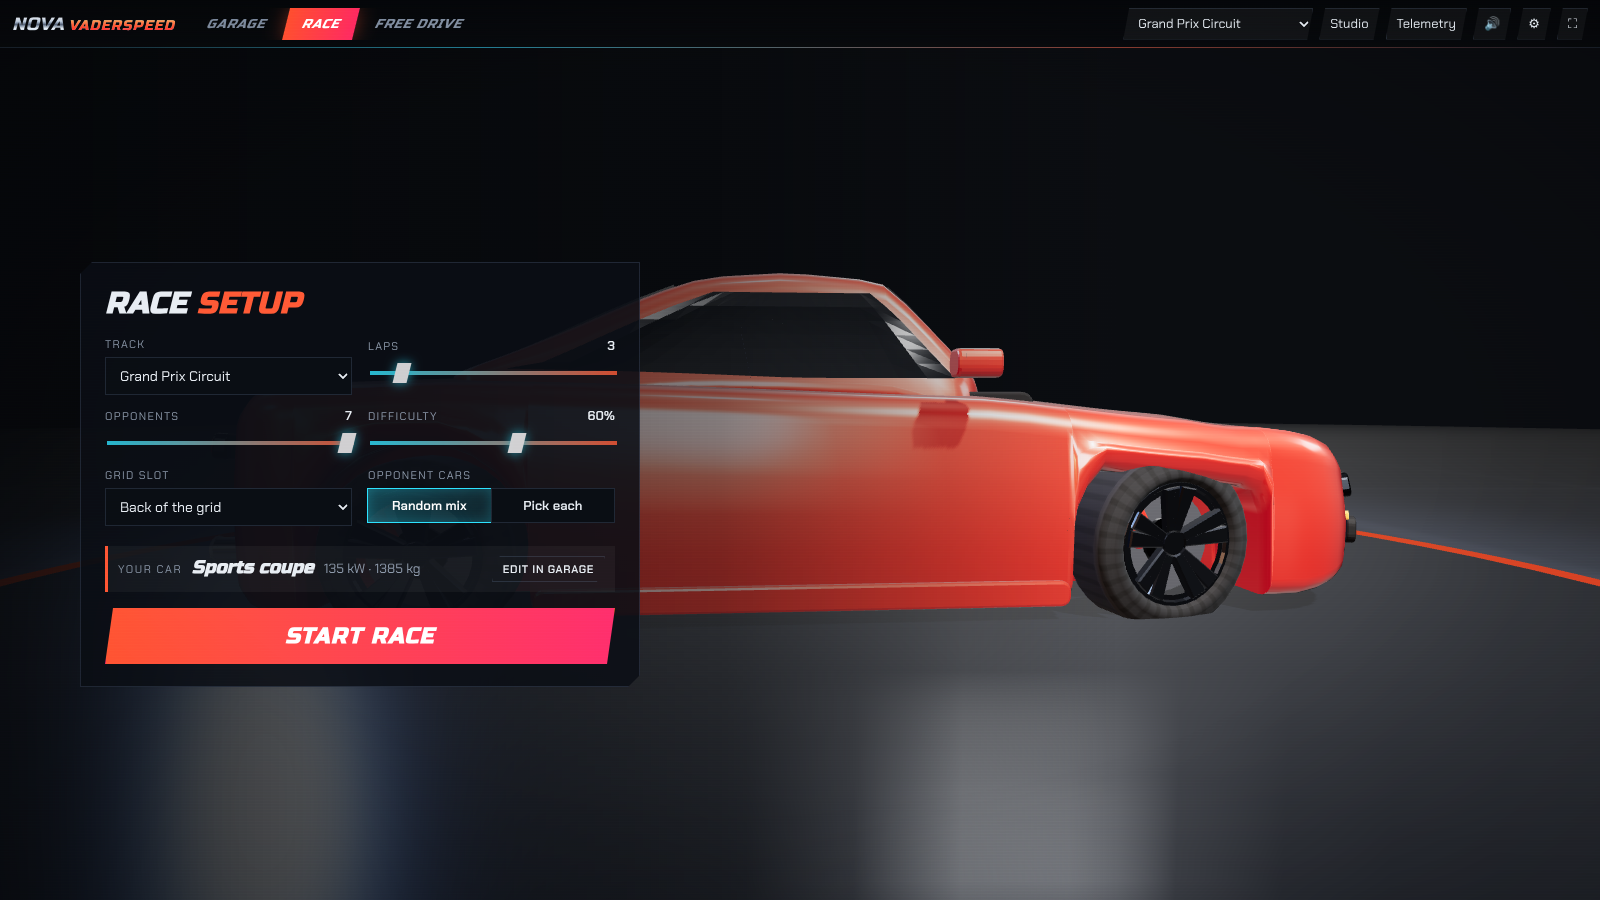
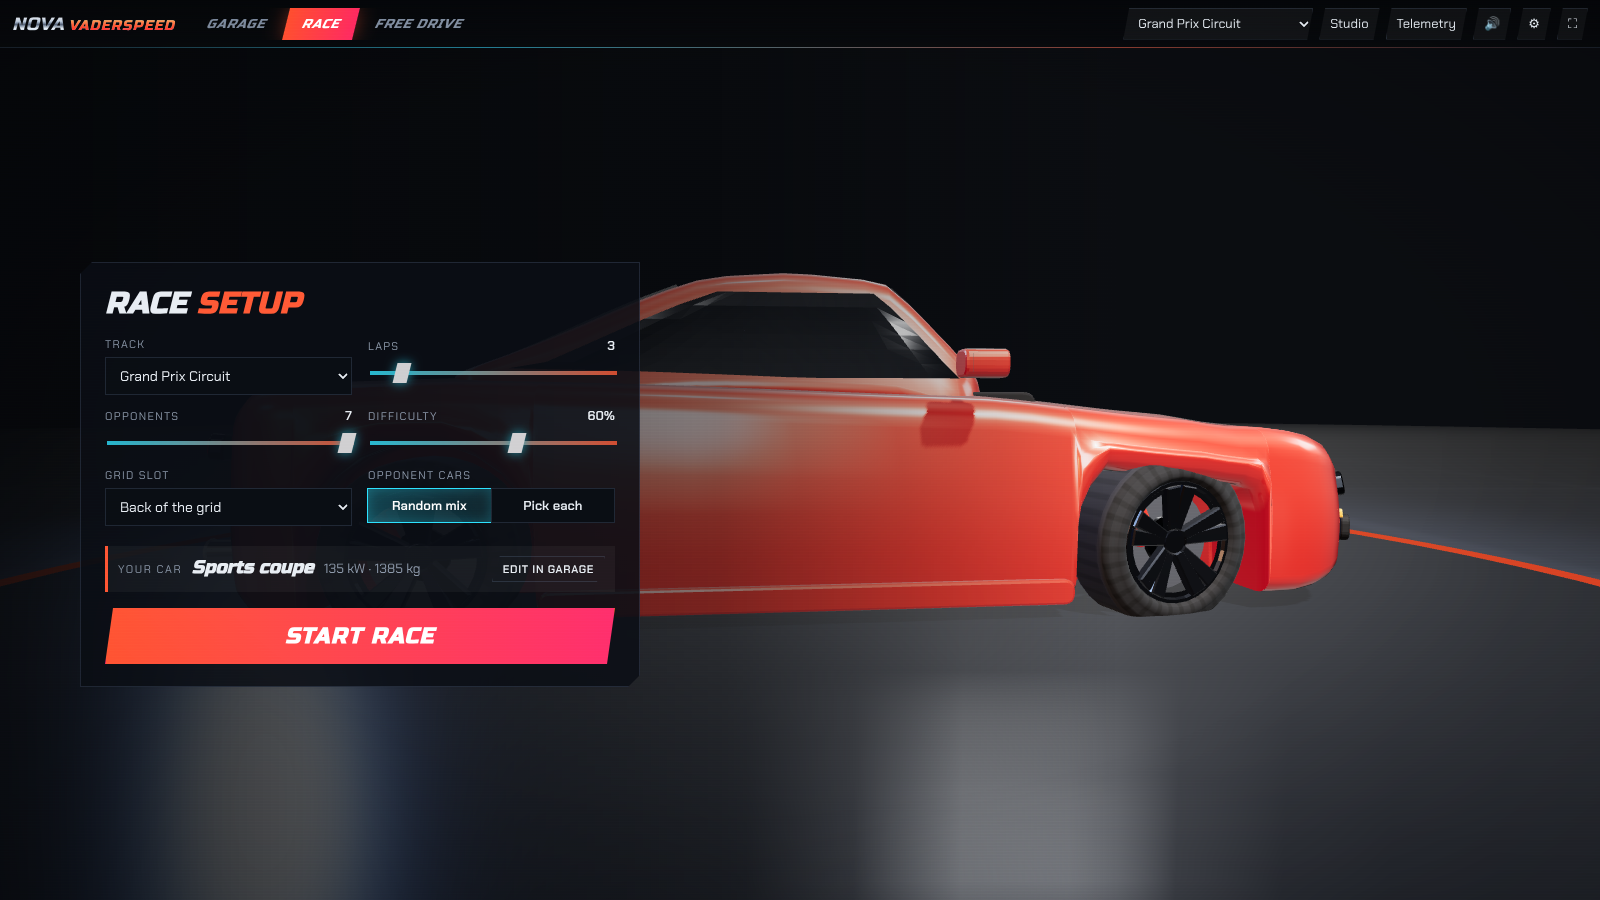
Integrate AI module, hardcore music style, FX adapter; builds verified
- AI: observation spec v1 (79 floats), MLP, GA and OpenAI-ES learners, 'neural' driver,
  seeded trainer with car-second budget and worker pool, Claude team brain,
  COMPETITION.md and team templates (src/ai, scripts/train.js, teams/)
- Music: 'hardcore' (gabber/jungle/acid, 175 BPM) default for races; acidBreaks for menus
- FX: installFx adapter wiring initFX into the render hooks; opt-in with ?fx until the
  exposure clash with the base renderer is fixed
- vite build and single-file build (1.4 MB) both succeed

Claude-Session: https://claude.ai/code/session_011tPxsG2AE8UxTqtFPSCmSL

diff --git a/car-sim/src/ui/music/sequencer.js b/car-sim/src/ui/music/sequencer.js
@@ -172,7 +172,11 @@ export function planBar(deck, info) {
   const I = info.intensity;
   const { bar, bars, name, nextName } = info;
   const L = layersFor(name, style, I, bar, bars);
-  const AB = style === 'acidBreaks';
+  const HC = style === 'hardcore';
+  const AB = style === 'acidBreaks' || HC;
+  const jungle = HC && (name === 'drop2' || name === 'bridge' || name === 'break' || name === 'build2');
+  const gabber = HC && !jungle && !L.halftime;
+  if (gabber && name !== 'intro') L.bass = 0; // the distorted kick is the bass
   if (AB) { L.lead = 0; L.vox = 0; } // the 303 is the lead; vocal chops are hype ad-libs only
   const rng = makeRng((song.chopSeed + info.globalBar * 7919 + bar * 31) >>> 0);
   const emit = (ev) => deck.emit(ev);
@@ -254,6 +258,7 @@ export function planBar(deck, info) {
   } else {
     if (L.kick) {
       let kicks = bar % 2 === 0 ? song.kickA : song.kickB;
+      if (HC) kicks = jungle ? (bar % 2 ? [0, 2, 10] : [0, 10]) : [0, 4, 8, 12];
       if (name === 'build' && bar < bars / 2 && style !== 'acid') kicks = [0, 8];
       for (const s of kicks) {
         if (preDropGap && s >= 12) continue;
@@ -264,7 +269,7 @@ export function planBar(deck, info) {
     if (L.snare) {
       for (const s of S.snares) {
         if ((preDropGap || fill === 2) && s === 12) continue;
-        if (style === 'acid') emit({ t: st(s), type: 'hit', s: 'clap', g: 0.75, ch: 'snare' });
+        if (style === 'acid' || gabber) emit({ t: st(s), type: 'hit', s: 'clap', g: 0.75, ch: 'snare' });
         else {
           emit({ t: st(s), type: 'hit', s: 'snare', g: style === 'dnb' ? 0.85 : 0.8, ch: 'snare' });
           if (style === 'garage') emit({ t: st(s), type: 'hit', s: 'clap', g: 0.5, ch: 'snare' });
@@ -279,7 +284,7 @@ export function planBar(deck, info) {
           else if (s % 2 === 1) emit({ t: st(s), type: 'hit', s: 'hat', g: 0.28, ch: 'hats' });
           else if (L.hats16) emit({ t: st(s), type: 'hit', s: 'hat', g: 0.13, ch: 'hats' });
         }
-      } else if (style === 'acid') {
+      } else if (style === 'acid' || gabber) {
         for (let s = 0; s < 16; s++) {
           if (s % 4 === 2) emit({ t: st(s), type: 'hit', s: 'ohat', g: 0.3, ch: 'hats' });
           else if (L.hats16 || s % 2 === 0) emit({ t: st(s), type: 'hit', s: 'hat', g: s % 4 === 0 ? 0.12 : 0.2, ch: 'hats' });
@@ -295,7 +300,10 @@ export function planBar(deck, info) {
     }
     if (L.ride) for (let s = 0; s < 16; s += 2) emit({ t: st(s), type: 'hit', s: 'ride', g: s % 4 === 0 ? 0.2 : 0.14, ch: 'hats' });
     if (L.perc) {
-      if (style === 'garage') {
+      if (HC) { // industrial clank: pitched-down rims + metallic tom hits
+        for (const s of [3, 7, 11, 15]) emit({ t: st(s), type: 'hit', s: 'rim', g: 0.32, ch: 'perc', rate: 0.62 });
+        if (bar % 2) emit({ t: st(14), type: 'hit', s: 'tomHi', g: 0.35, ch: 'perc', rate: 2.2 });
+      } else if (style === 'garage') {
         for (const s of song.rimSteps) emit({ t: st(s), type: 'hit', s: 'rim', g: 0.3, ch: 'perc' });
         for (let s = 0; s < 16; s++) emit({ t: st(s), type: 'hit', s: 'shaker', g: s % 2 ? 0.14 : 0.08, ch: 'perc' });
       } else if (style === 'acid') {
@@ -336,8 +344,8 @@ export function planBar(deck, info) {
 
   // ---- breakbeat
   if (L.brk && !L.halftime && !isCountdown) {
-    const level = S.breakLevel * (L.brkLP ? 0.9 : 1);
-    const slices = chopBar(rng, info.globalBar, L.chop, fill, toDrop && L.chop > 0);
+    const level = S.breakLevel * (L.brkLP ? 0.9 : 1) * (gabber ? 0.4 : 1);
+    const slices = chopBar(rng, info.globalBar, jungle ? Math.max(L.chop, 0.85) : L.chop, jungle && fill === 0 && bar % 2 ? 1 : fill, toDrop && L.chop > 0);
     for (const x of slices) {
       if (preDropGap && x.s >= 15 && !x.rev && x.src % 16 !== 12) continue;
       emit({ t: t0 + x.s * sd + (Number.isInteger(x.s) && x.s % 2 ? swingOff * 0.5 : 0), type: 'slice', src: x.src, len: x.len, rate: x.rate, rev: x.rev, g: x.g * level });
@@ -477,6 +485,7 @@ function planAcid(deck, info, acid, chordDeg, bassMidi, st, sd, emit, I, name, b
   if (name === 'intro') base *= 0.35 + 0.4 * (info.bar / info.bars);
   if (name === 'build' || name === 'build2') base *= 0.4 + 0.6 * ((info.bar + 1) / info.bars); // builds through the section
   if (name === 'switch') base *= 0.7;
+  if (deck.song.style === 'hardcore') base *= 1.35; // screaming
   if (name === 'final') base *= 1.4;
   const envAmt = 900 + 1800 * cyc * I;
   for (let s = 0; s < 16; s++) {

diff --git a/car-sim/src/ui/music/deck.js b/car-sim/src/ui/music/deck.js
@@ -28,11 +28,12 @@ export const STYLE_MIX = {
   dnb: { kick: 0.309, snare: 0.879, hats: 3.471, perc: 9.333, brk: 1.172, bass: 0.331, stab: 2.603, lead: 2.688, fx: 1.279 },
   breaks: { kick: 0.239, snare: 0.68, hats: 3.972, perc: 9.55, brk: 0.981, bass: 0.333, stab: 3.361, lead: 3.42, fx: 1.085 },
   garage: { kick: 0.333, snare: 1.551, hats: 3.913, perc: 5.788, brk: 0.857, bass: 0.337, stab: 2.168, vox: 1.4, fx: 1.085 },
+  hardcore: { kick: 0.17, snare: 0.75, hats: 3.8, perc: 6, brk: 1.0, bass: 0.3, stab: 2.4, acid: 0.7, vox: 1.3, fx: 1.1 },
   acidBreaks: { kick: 0.25, snare: 0.75, hats: 3.8, perc: 9, brk: 0.95, bass: 0.36, stab: 2.4, acid: 0.85, vox: 1.3, fx: 1.1 },
   acid: { kick: 0.187, snare: 2.138, hats: 3.776, perc: 13.092, brk: 0.961, sub: 0.243, acid: 0.796, stab: 2.028, lead: 3.528, fx: 1.146 },
 };
 
-const DUCK = { dnb: 0.5, breaks: 0.55, garage: 0.5, acid: 0.4, acidBreaks: 0.5 };
+const DUCK = { dnb: 0.5, breaks: 0.55, garage: 0.5, acid: 0.4, acidBreaks: 0.5, hardcore: 0.4 };
 
 /** Section lists for each playback mode. */
 export function modeSections(mode, song) {
@@ -40,7 +41,7 @@ export function modeSections(mode, song) {
     case 'free': return song.arrangement.map((s) => ({ ...s }));
     case 'chill': return [{ name: 'chill', bars: 16 }, { name: 'chillB', bars: 16 }, { name: 'chill', bars: 8 }, { name: 'chillB', bars: 16 }];
     case 'race': {
-      const b = song.style === 'acidBreaks' ? 'switch' : 'bridge';
+      const b = song.style === 'acidBreaks' ? 'switch' : song.style === 'hardcore' ? 'drop2' : 'bridge';
       return [{ name: 'race', bars: 16 }, { name: b, bars: 8 }, { name: 'drop2', bars: 16 }, { name: 'race', bars: 16 }, { name: b, bars: 8 }, { name: 'drop2', bars: 16 }];
     }
     case 'raceIn': return [{ name: 'build2', bars: 4 }, ...modeSections('race', song)];
@@ -137,7 +138,7 @@ export class Deck {
     }
 
     // ---- persistent mono synths
-    const bassType = { dnb: 'reese', breaks: 'bigbeat', garage: 'wobble', acid: 'acid', acidBreaks: 'grime' }[song.style];
+    const bassType = { dnb: 'reese', breaks: 'bigbeat', garage: 'wobble', acid: 'acid', acidBreaks: 'grime', hardcore: 'reese' }[song.style];
     const preset = { ...BASS_PRESETS[bassType] };
     if (preset.lfo) preset.lfo = { ...preset.lfo, rate: bassType === 'reese' ? song.bpm / 60 / 8 : preset.lfo.rate };
     if (bassType === 'acid' && (song.seed & 1)) preset.oscs = [{ type: 'square', detune: 0, g: 0.8 }];
@@ -149,8 +150,9 @@ export class Deck {
       this.sub.start(startTime);
       this.synths.push(this.sub);
     }
-    if ((song.style === 'breaks' || song.style === 'acidBreaks') && song.acid) {
-      this.acid = new MonoSynth(ctx, this.ch.acid, { ...BASS_PRESETS.acid, level: song.style === 'acidBreaks' ? 0.5 : 0.4 });
+    if ((song.style === 'breaks' || song.style === 'acidBreaks' || song.style === 'hardcore') && song.acid) {
+      const scream = song.style === 'hardcore' ? { q: 19, drive: 7, preGain: 1.8, level: 0.4, hp: 160 } : {};
+      this.acid = new MonoSynth(ctx, this.ch.acid, { ...BASS_PRESETS.acid, level: song.style === 'acidBreaks' ? 0.5 : 0.4, ...scream });
       this.acid.start(startTime);
       this.synths.push(this.acid);
     }

diff --git a/car-sim/src/ui/fx/install.js b/car-sim/src/ui/fx/install.js
@@ -1,0 +1,61 @@
+// Glue between the visuals layer (initFX) and the front-end's render hooks (render/context.js).
+// main.js calls installFx(renderContext, { quality, onQualityChange }) once at start-up.
+// Track scene only: the garage/menu studio keeps the front-end's own render path.
+// Potato quality skips the FX layer entirely (cheapest path for weak laptops).
+
+import { initFX } from './index.js';
+
+export function installFx(rc, { quality = 'auto', onQualityChange } = {}) {
+  let fx = null;
+  let q = quality;
+  const added = new Set();
+  const preset = (() => { try { return localStorage.getItem('nv.fx.env') || 'night'; } catch { return 'night'; } })();
+
+  const enabled = () => q !== 'potato';
+
+  function ensure() {
+    if (fx || !enabled() || !rc.renderer || !rc.scene || !rc.camera || !rc.track || !rc.trackGroup) return fx;
+    fx = initFX({ renderer: rc.renderer, scene: rc.scene, camera: rc.camera, track: rc.track, trackGroup: rc.trackGroup,
+      cars: [], preset, quality: q, autoScale: true, targetFps: 60 });
+    return fx;
+  }
+
+  rc.hooks.track.add((group, track) => {
+    if (fx) fx.setTrack(track, group);
+    else ensure();
+  });
+  rc.hooks.carRemoved.add((cv) => {
+    if (fx && added.has(cv)) { fx.removeCar(cv.group); added.delete(cv); }
+  });
+  rc.hooks.frame.add((dt) => {
+    if (rc.activeScene !== 'track' || !ensure()) return;
+    const vehicleOf = rc.vehicleOf || (() => null);
+    for (const cv of rc.cars || []) {
+      if (added.has(cv)) continue;
+      const v = vehicleOf(cv);
+      if (v) { fx.addCar(cv.group, v, { player: cv === rc.world?.focus }); added.add(cv); }
+    }
+    const focus = rc.world?.focus;
+    const pv = focus ? vehicleOf(focus) : null;
+    fx.update(dt, { playerVehicle: pv, speed: pv ? Math.abs(pv.speed) : 0 });
+  });
+  rc.renderFn = (scene, camera, dt) => {
+    if (fx && rc.activeScene === 'track' && scene === rc.scene) fx.render(dt);
+    else rc.renderer.render(scene, camera);
+  };
+
+  if (typeof onQualityChange === 'function') {
+    try {
+      onQualityChange((nq) => {
+        q = nq?.name || nq;
+        if (!enabled() && fx) { fx.dispose(); fx = null; added.clear(); }
+        else if (fx) fx.setQuality(q);
+      });
+    } catch { /* optional */ }
+  }
+
+  return {
+    get fx() { return fx; },
+    setEnvironment(p) { try { localStorage.setItem('nv.fx.env', p); } catch { /* ignore */ } fx?.setEnvironment(p); },
+  };
+}

diff --git a/car-sim/src/ui/modes/race.js b/car-sim/src/ui/modes/race.js
@@ -107,7 +107,7 @@ registerMode({
         const aggression = 0.3 + Math.random() * 0.5;
         let driver; try { driver = api ? api.createDriver('pursuit', { skill: Math.min(0.99, skill + (Math.random() - 0.5) * 0.04), aggression, seed: slot }) : fallbackDriver(skill); } catch (err) { console.error('[race] driver', err); driver = fallbackDriver(skill); }
         try { driver.reset(car.v, track); } catch (err) { console.error('[race] driver.reset', err); }
-        Object.assign(car, { name: `${DRIVER_NAMES[(ai + slot * 3) % DRIVER_NAMES.length]}`, carName: preset.label, driver, color: spec.color });
+        Object.assign(car, { name: DRIVER_NAMES[ai % DRIVER_NAMES.length], carName: preset.label, driver, color: spec.color });
         ai++;
       }
       Object.assign(car, { slot, behind, controls: NEUTRAL(), finished: false, finishTime: null, dist: -behind });
@@ -176,7 +176,7 @@ registerMode({
           c.cv.capturePrev(c.v);
           if (c.player && !c.finished) Object.assign(c.controls, pc);
           else if (doAct) { try { c.driver.act(c.v, this.track, { cars: this.vehicles, time: this.simTime }, c.controls); } catch (err) { if (!this._drvErr) { console.error('[race] driver.act', err); this._drvErr = true; } } }
-          if (grid) { c.controls.brake = 1; c.controls.handbrake = 1; if (!c.player) c.controls.throttle = 0.25; }
+          if (grid) { c.controls.brake = 0; c.controls.handbrake = 1; c.controls.throttle = 0; c.controls.shiftDown = false; } // brake at standstill would make the ECU select reverse
           c.v.step(c.controls);
         }
         if (collide) collide(this.vehicles);

diff --git a/car-sim/src/ui/music/composer.js b/car-sim/src/ui/music/composer.js
@@ -165,7 +165,7 @@ export function generateSong(seed, style) {
     stabRhythm: rng.pick(S.stabRhythms),
     riff,
     riffLen: S.riffLen,
-    acid: style === 'acid' || style === 'acidBreaks' || (style === 'breaks' && rng.chance(0.35)) ? makeAcid(rng.fork('acid')) : null,
+    acid: style === 'acid' || style === 'acidBreaks' || style === 'hardcore' || (style === 'breaks' && rng.chance(0.35)) ? makeAcid(rng.fork('acid')) : null,
     kickA,
     kickB,
     breakHits: makeBreak(rng.fork('break')),
@@ -174,7 +174,12 @@ export function generateSong(seed, style) {
     rimSteps: rng.pick([[3, 7, 14], [6, 9, 15], [3, 10], [7, 13, 14]]),
     finalTranspose: rng.pick([1, 2, 2]),
     chopSeed: rng.int(1, 1e9),
-    arrangement: style === 'acidBreaks' ? [
+    arrangement: style === 'hardcore' ? [
+      // 4/4 gabber blocks ('drop') alternate with chopped jungle blocks ('drop2')
+      { name: 'intro', bars: 8 }, { name: 'build', bars: 8 }, { name: 'drop', bars: 8 }, { name: 'drop2', bars: 8 },
+      { name: 'drop', bars: 8 }, { name: 'break', bars: 8 }, { name: 'build2', bars: 4 }, { name: 'drop2', bars: 16 },
+      { name: 'drop', bars: 8 }, { name: 'outro', bars: 8 },
+    ] : style === 'acidBreaks' ? [
       // grime-style 8/16-bar blocks with a half-time switch-up
       { name: 'intro', bars: 8 }, { name: 'build', bars: 8 }, { name: 'drop', bars: 8 }, { name: 'switch', bars: 8 },
       { name: 'drop2', bars: 16 }, { name: 'switch', bars: 8 }, { name: 'outro', bars: 8 },

diff --git a/car-sim/src/ui/music/styles.js b/car-sim/src/ui/music/styles.js
@@ -31,6 +31,29 @@ const GRIME_RIFFS = [ // 16 steps, 808-style sliding sub
 ];
 
 export const STYLES = {
+  hardcore: {
+    label: 'Hardcore / Gabber Jungle',
+    bpm: [168, 178],
+    swing: [0.5, 0.51],
+    scales: ['phrygian', 'harmonicMinor', 'phrygian', 'aeolian'],
+    progressions: [[0, 0, 1, 0], [0, 6, 5, 6], [0, 0, 5, 1], [0, 0, 6, 4]],
+    chordBars: [2],
+    chordSize: 3,
+    bass: 'reese',
+    riffs: REESE_RIFFS,
+    riffLen: 32,
+    stab: 'hoover',
+    lead: 'acid',
+    arp: 'square',
+    kicks: [[[0, 4, 8, 12], [0, 4, 8, 12]]],
+    snares: [4, 12],
+    breakLevel: 0.95,
+    motifRhythms: [[[0, 3], [3, 3], [6, 2], [10, 6]]],
+    stabRhythms: [[0, 3, 6], [0, 10], [0, 6, 14], [0]],
+    rootRange: [33, 40],
+    words: ['Gabber', 'Hardcore', 'Rotterdam', 'Thunderdome', 'Amen', 'Acid', 'Terror', 'Hoover', 'Rave'],
+    suffixes: ['(Hardcore Mix)', '(Rotterdam Edit)', 'VIP', '(Terror Mix)', '', ''],
+  },
   acidBreaks: {
     label: 'Acid Breaks',
     bpm: [138, 142],

diff --git a/car-sim/src/ui/music/kit.js b/car-sim/src/ui/music/kit.js
@@ -31,6 +31,10 @@ const STYLE_KIT = {
     kick: { f0: 170, f1: 48, pTau: 0.032, hold: 0.04, aTau: 0.22, click: 0.35, drive: 1.6, dur: 0.55 },
     snare: { tone: 230, toneDecay: 0.05, noise: 0.9, toneAmt: 0.6, noiseDecay: 0.1, nhp: 1800, nlp: 11000, crack: 5000, drive: 1.6 },
   },
+  hardcore: { // gabber: pitched-down, massively overdriven kick
+    kick: { f0: 260, f1: 47, pTau: 0.022, hold: 0.06, aTau: 0.11, click: 0.9, drive: 14, dur: 0.32 },
+    snare: { tone: 200, toneDecay: 0.06, noise: 1.0, toneAmt: 0.8, noiseDecay: 0.12, nhp: 1200, nlp: 11000, crack: 4200, drive: 3.5 },
+  },
   acidBreaks: {
     kick: { f0: 210, f1: 50, pTau: 0.03, hold: 0.025, aTau: 0.17, click: 0.6, drive: 2.8, dur: 0.45 },
     snare: { tone: 190, toneDecay: 0.07, noise: 1.0, toneAmt: 0.85, noiseDecay: 0.14, nhp: 1000, nlp: 11000, crack: 3800, drive: 3.0 },

diff --git a/car-sim/src/ui/music/engine.js b/car-sim/src/ui/music/engine.js
@@ -78,7 +78,8 @@ export class MusicEngine {
   // ------------------------------------------------------------------ songs
   pickStyle() {
     if (this.style !== 'auto' && STYLE_KEYS.includes(this.style)) return this.style;
-    if (this.raceState != null) return 'acidBreaks'; // house style for menus and races
+    if (this.raceState === 'menu') return 'acidBreaks'; // house style for menus
+    if (this.raceState != null) return 'hardcore'; // ...and harder, faster for races
     // rotate through styles without immediate repeats
     const choices = STYLE_KEYS.filter((s) => s !== this.lastStyle);
     return choices[hashSeed(this.seed + ':' + this.songIndex) % choices.length];

diff --git a/car-sim/src/ui/main.js b/car-sim/src/ui/main.js
@@ -172,7 +172,8 @@ window.addEventListener('pointerdown', startAudio); window.addEventListener('key
 
 // ---------------------------------------------------------------- visuals plug-in (engineer H)
 const loadFx = Object.values(fxMods)[0];
-if (loadFx && !new URLSearchParams(location.search).has('nofx')) {
+// Opt-in until the FX tone-mapping/exposure clash with the base renderer is fixed: ?fx in the URL.
+if (loadFx && new URLSearchParams(location.search).has('fx')) {
   loadFx().then((m) => (m.installFx || m.default)?.(renderContext, { quality: getQuality(), onQualityChange })).catch((err) => console.warn('[fx] failed to install', err));
 }
 

diff --git a/car-sim/src/ui/music/widget.js b/car-sim/src/ui/music/widget.js
@@ -30,7 +30,7 @@ const CSS = `
 `;
 
 const STYLE_OPTS = [
-  ['auto', 'Auto mix'], ['acidBreaks', 'Acid Breaks'], ['dnb', 'Drum & Bass'], ['breaks', 'Big Beat / Breaks'], ['garage', '2-Step Garage'], ['acid', 'Acid Techno'],
+  ['auto', 'Auto mix'], ['acidBreaks', 'Acid Breaks'], ['hardcore', 'Hardcore / Gabber'], ['dnb', 'Drum & Bass'], ['breaks', 'Big Beat / Breaks'], ['garage', '2-Step Garage'], ['acid', 'Acid Techno'],
 ];
 
 function injectCss() {

diff --git a/car-sim/src/ui/render/world.js b/car-sim/src/ui/render/world.js
@@ -156,6 +156,7 @@ export class World {
 
   /** Per-frame: effects, shadows following the focus car, camera, render. vehicleOf(cv) -> vehicle state. */
   frame(dt, vehicleOf) {
+    rc.vehicleOf = vehicleOf;
     this.dynres.tick(dt, this.q);
     if (this.active === 'studio') {
       const st = this.studio; if (st.car && this.autoRotate !== false) st.table.rotation.y += dt * 0.25;

diff --git a/car-sim/src/ui/fx/index.js b/car-sim/src/ui/fx/index.js
@@ -254,3 +254,4 @@ export function initFX(o) {
   if (q.post) loadPost();
   return api;
 }
+export { installFx } from './install.js';
